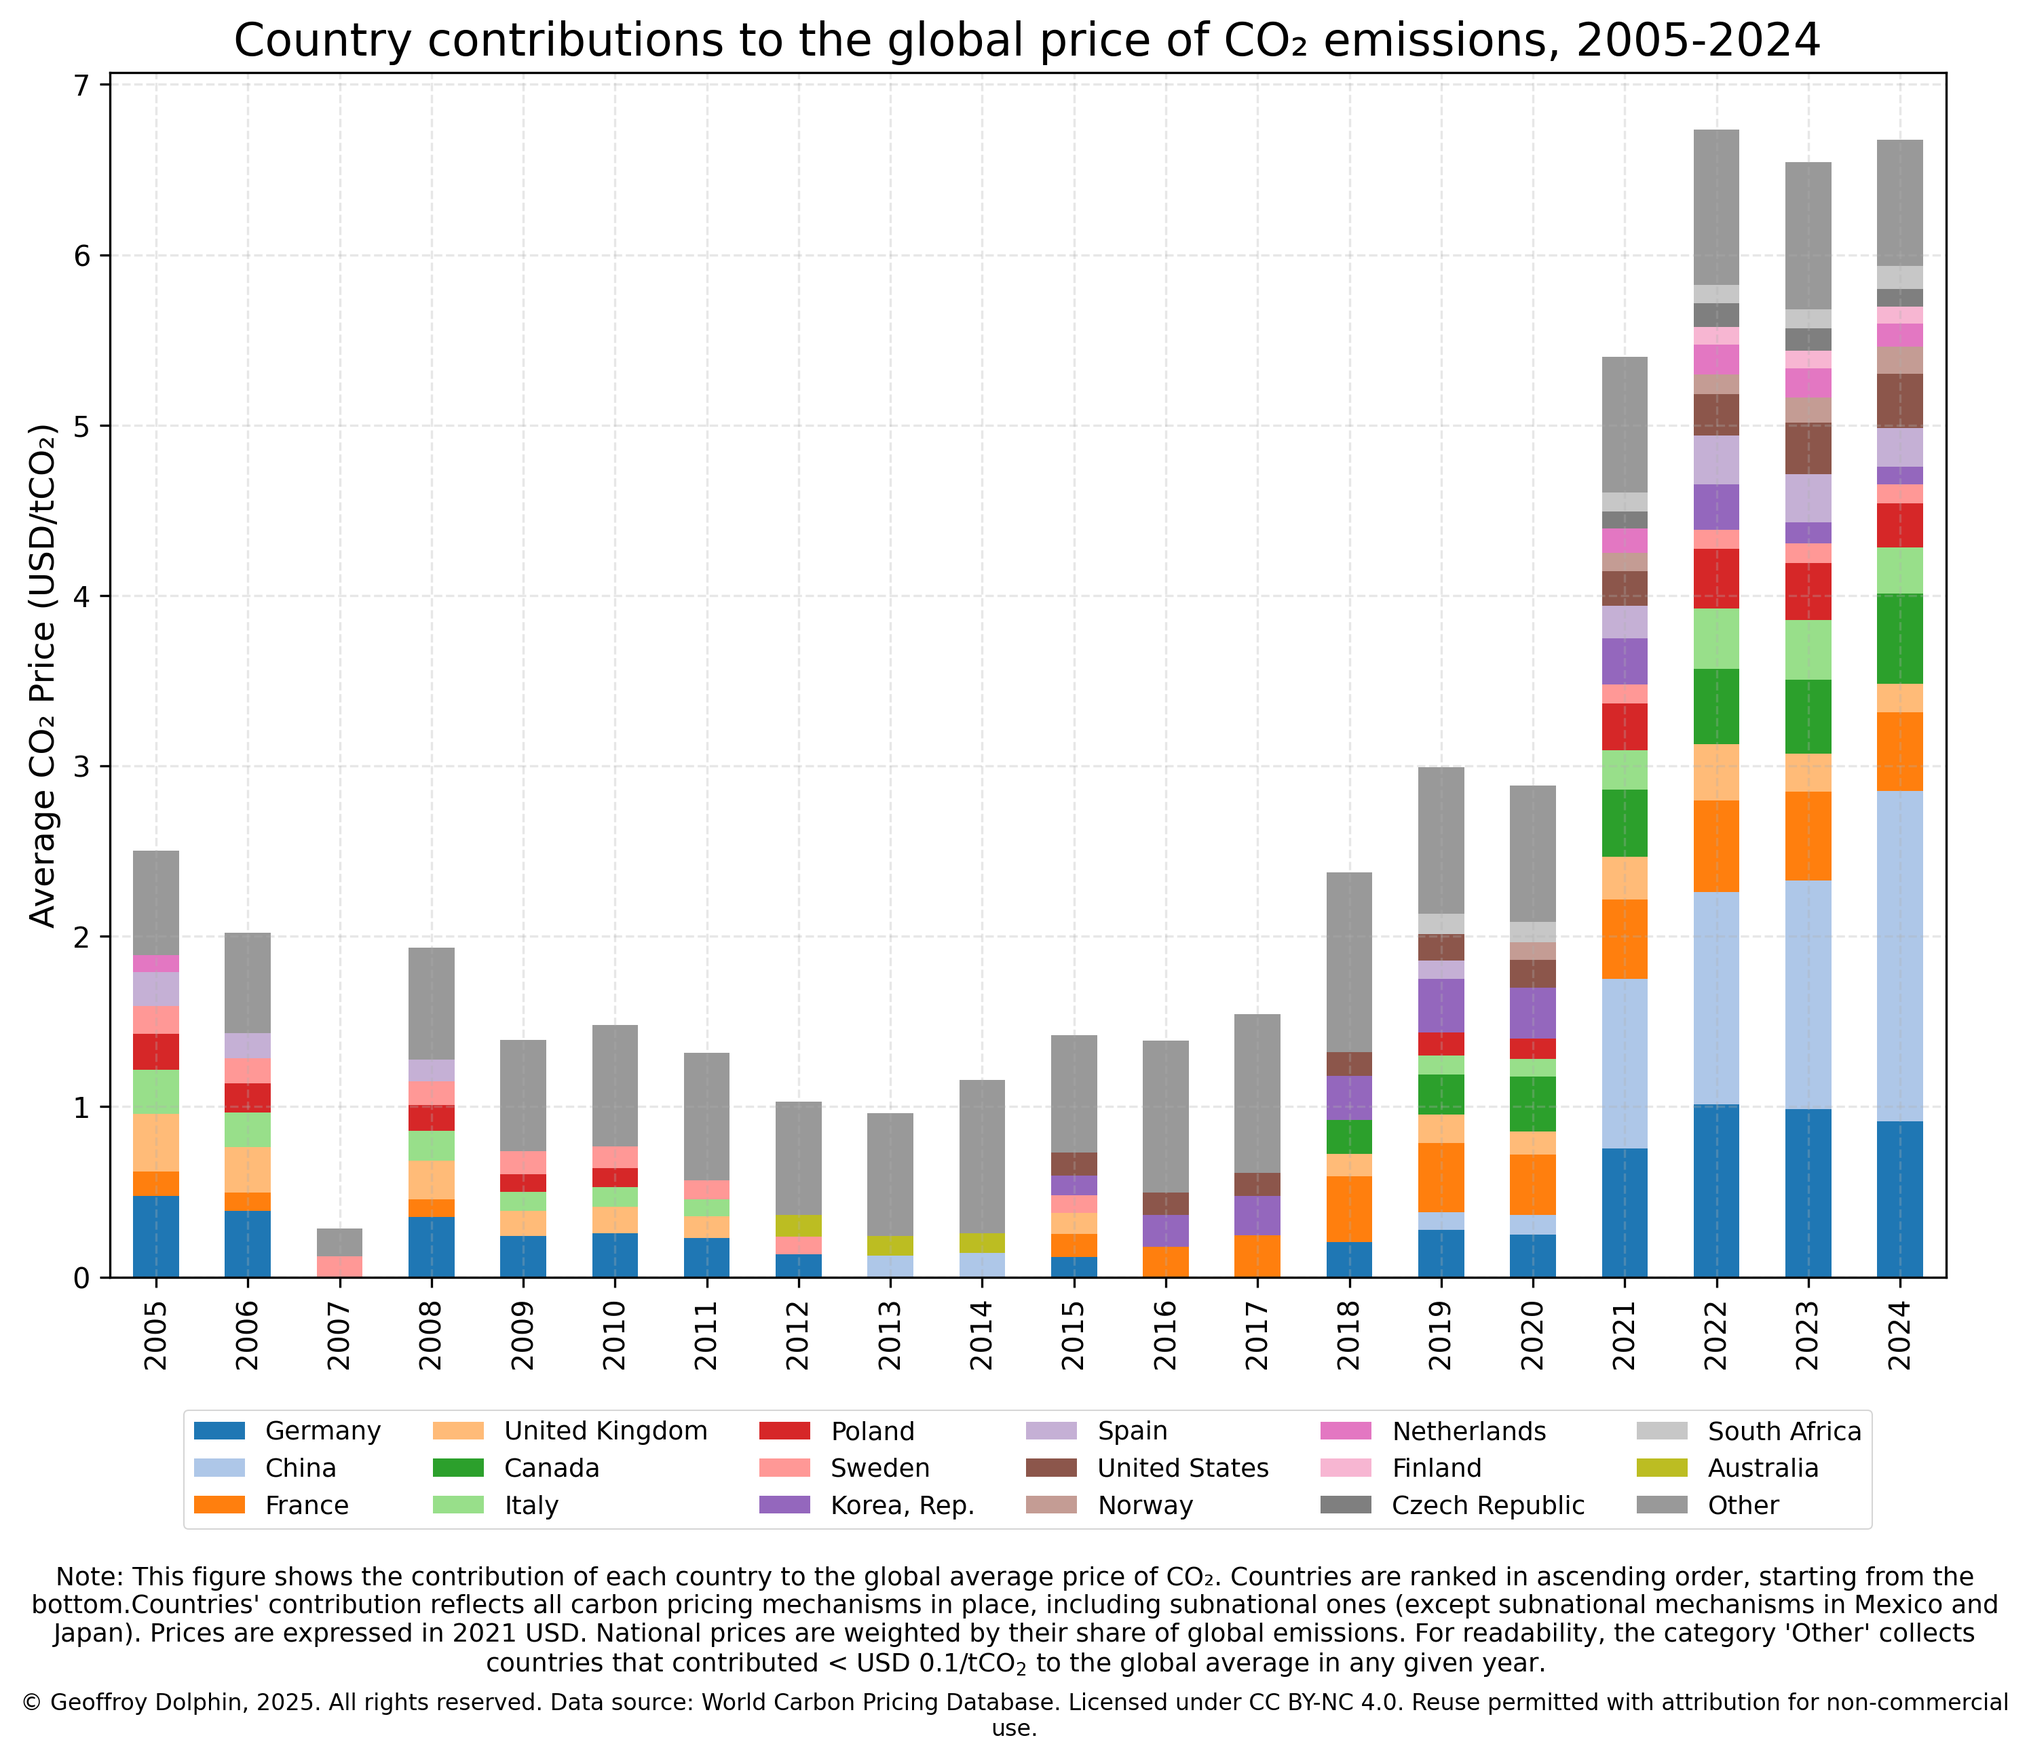
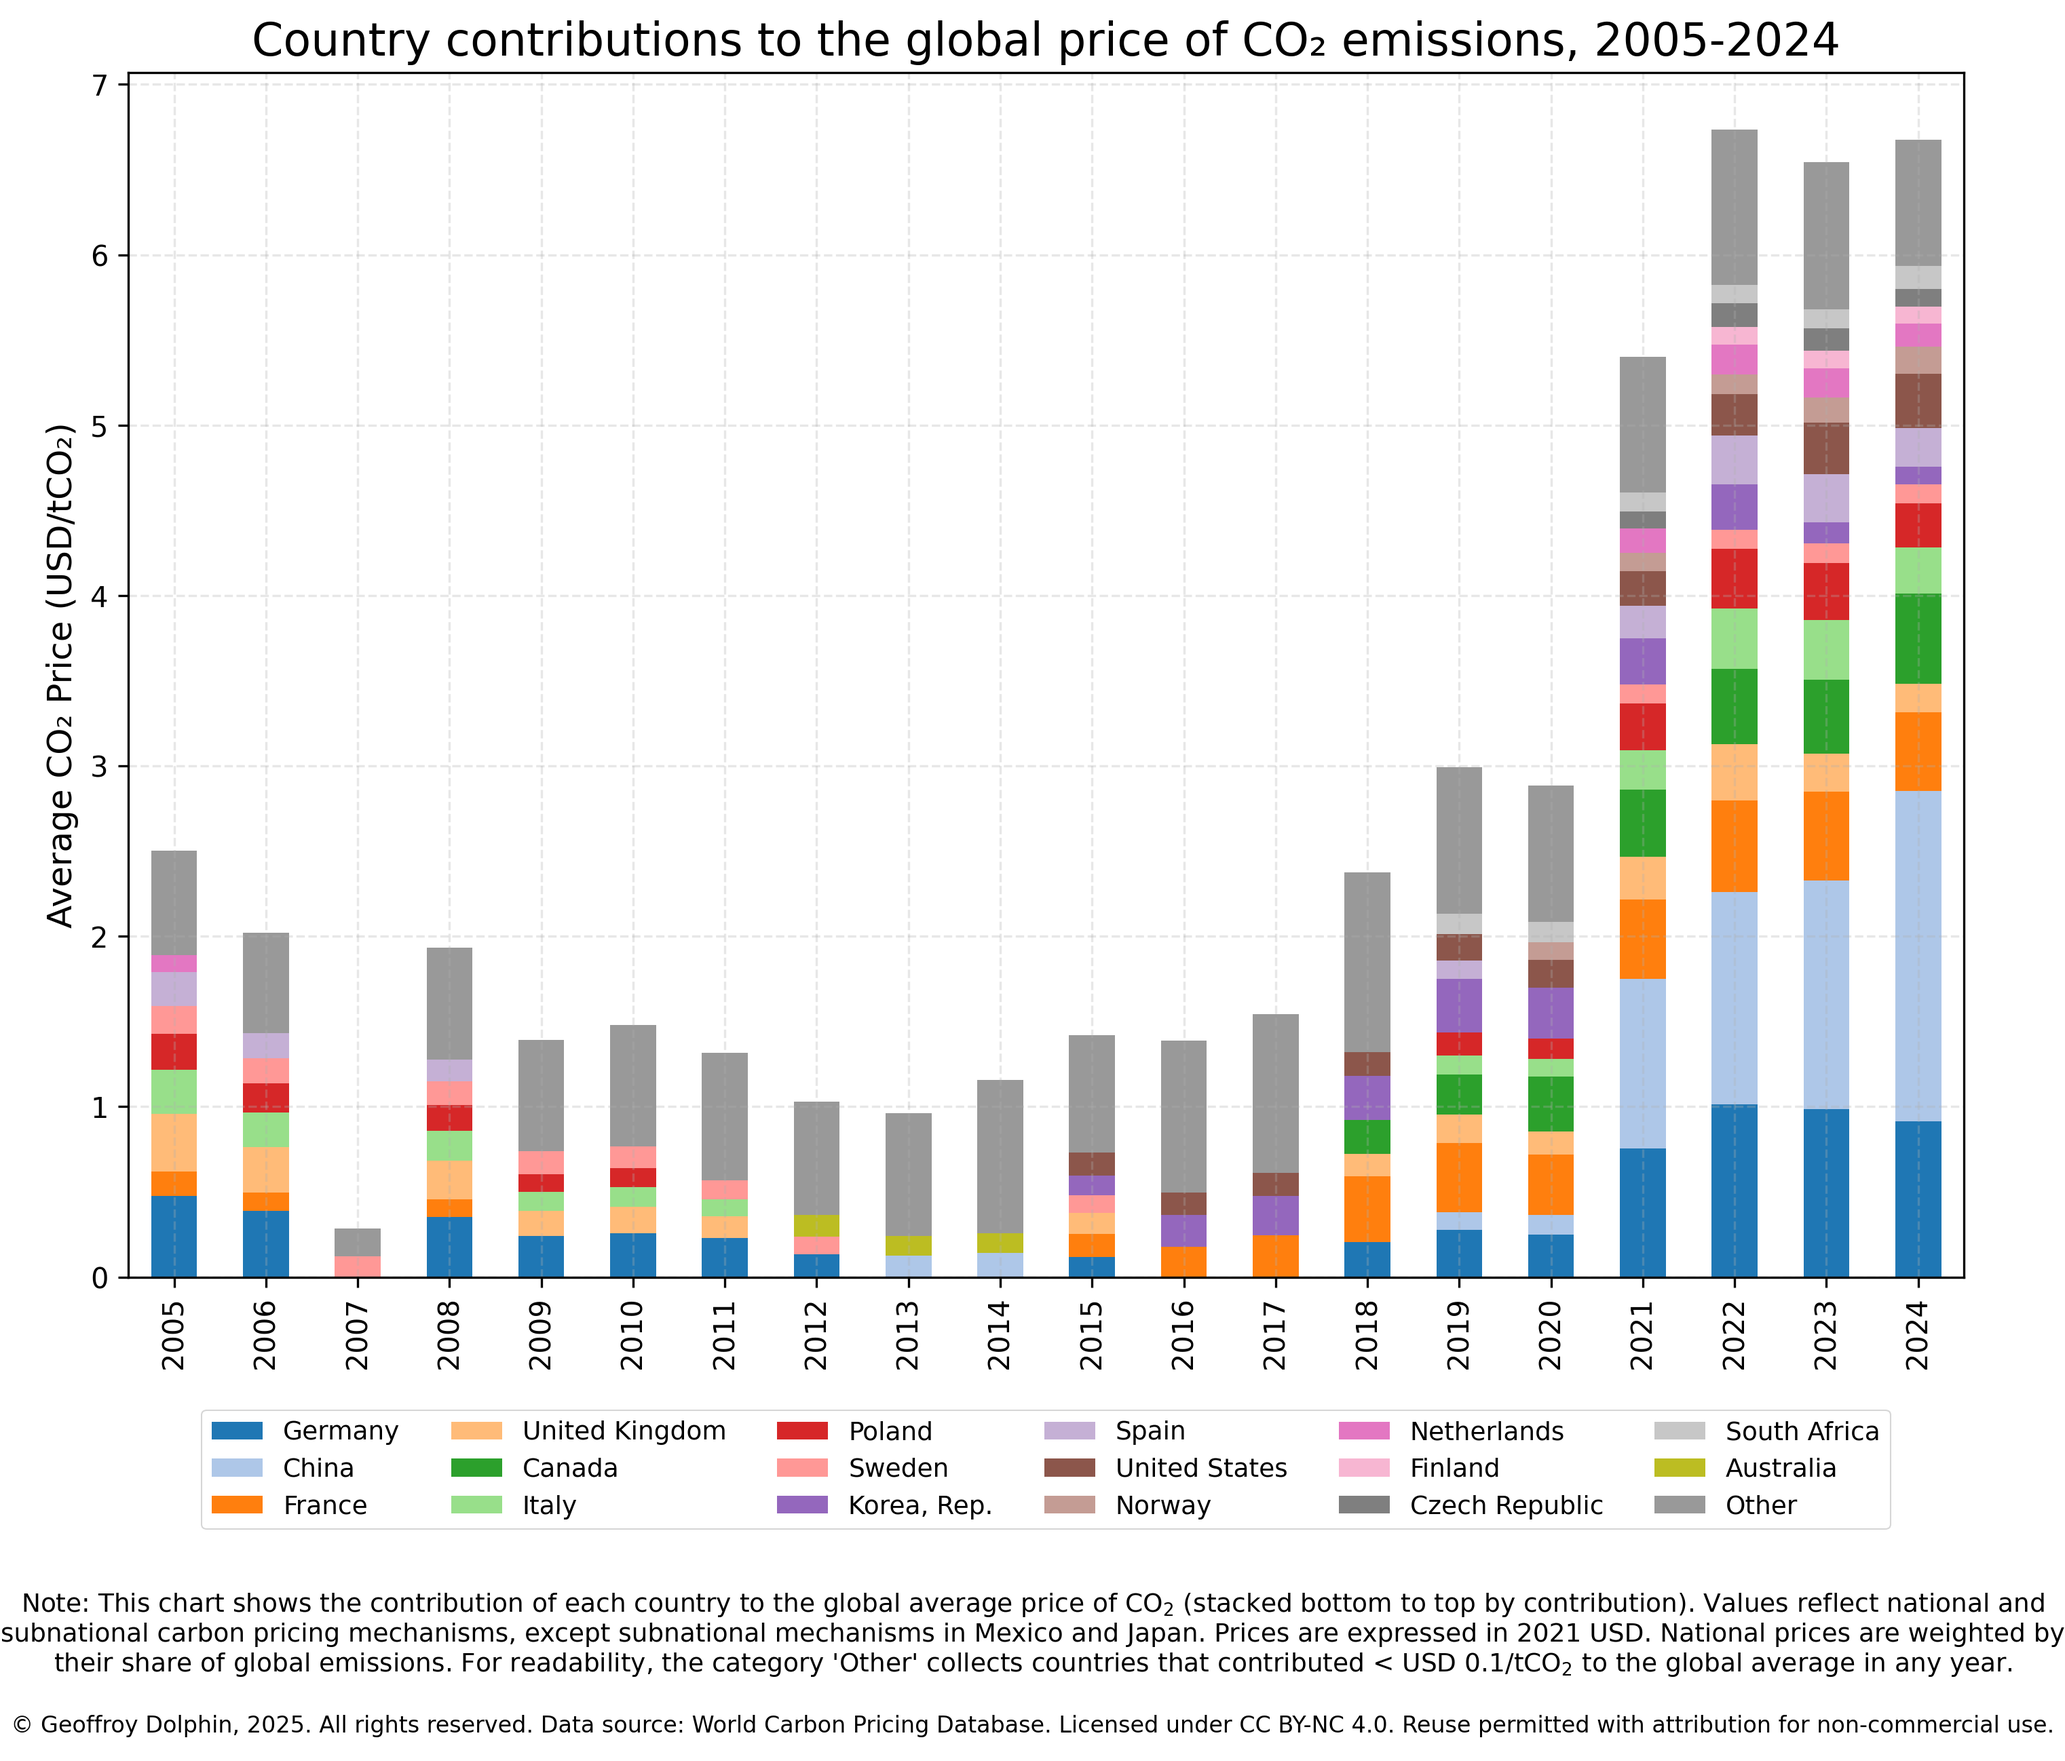
contrib upgrades

diff --git a/_code/reporting/charts/plots_national_stacked.py b/_code/reporting/charts/plots_national_stacked.py
@@ -88,10 +88,10 @@ def plot_stacked_national_bar(df_country):
     }
 
     note_text = (
-        "Note: This figure shows the contribution of each country to the global average price of CO₂. Countries are ranked in ascending order, starting from the bottom."
-        "Countries' contribution reflects all carbon pricing mechanisms in place, including subnational ones (except subnational mechanisms in Mexico and Japan). " 
-        "Prices are expressed in 2021 USD. National prices are weighted by their share of global emissions. " 
-        "For readability, the category 'Other' collects countries that contributed < USD 0.1/tCO$_2$ to the global average in any given year."
+        "Note: This chart shows the contribution of each country to the global average price of CO$_2$ (stacked bottom to top by contribution). "
+        "Values reflect national and subnational carbon pricing mechanisms, except subnational mechanisms in Mexico and Japan. "
+        "Prices are expressed in 2021 USD. National prices are weighted by their share of global emissions. "
+        "For readability, the category 'Other' collects countries that contributed < USD 0.1/tCO$_2$ to the global average in any year."
     )
     footer_text = (
         "© Geoffroy Dolphin, 2025. All rights reserved. "
